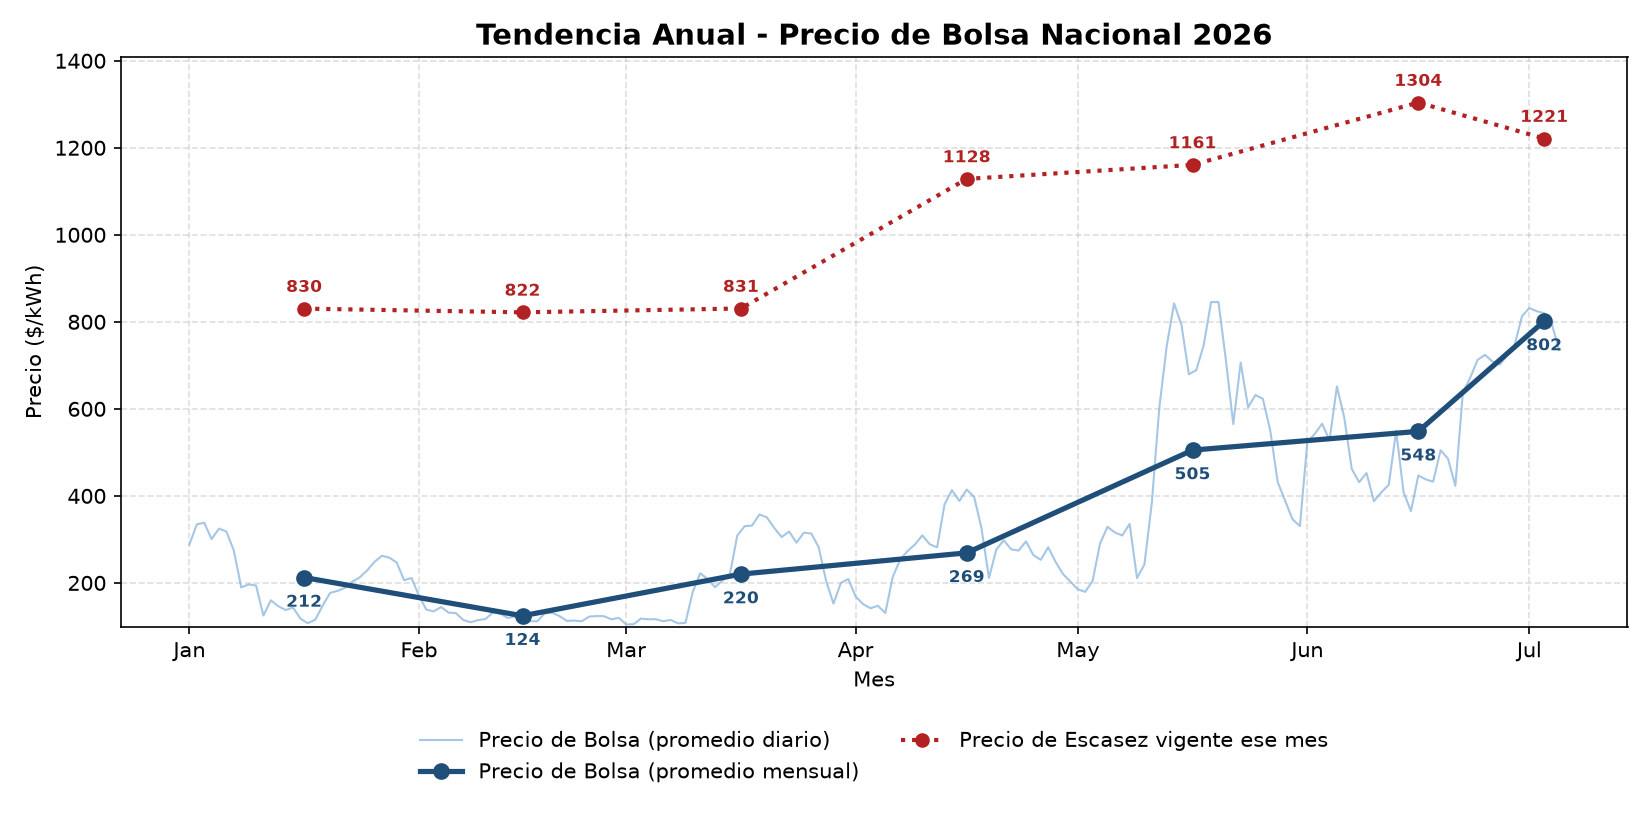
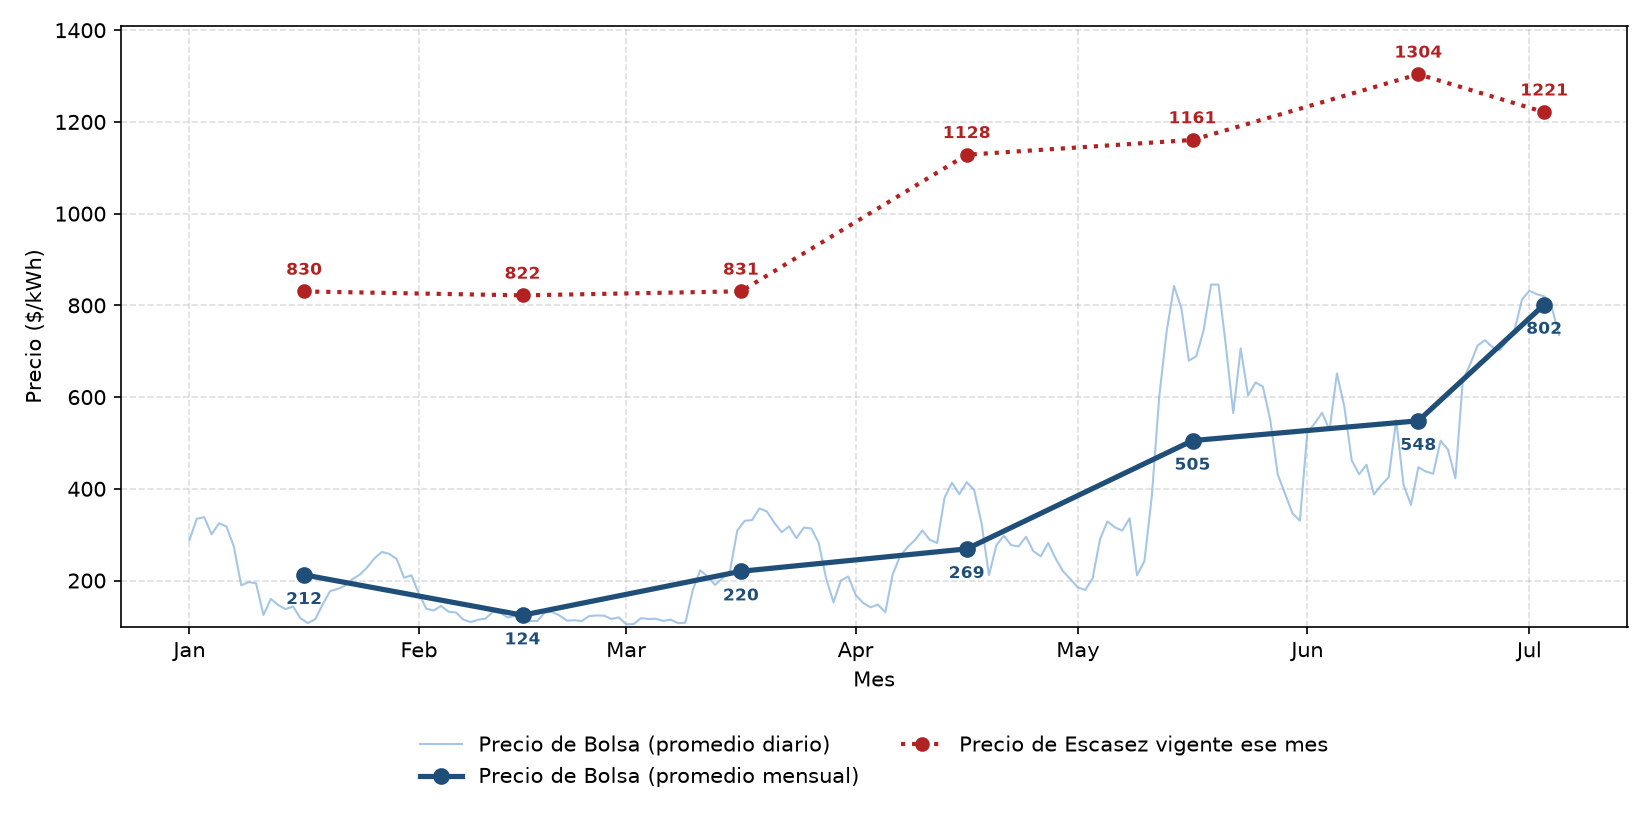
Mejoras visuales y control de envio unico diario

diff --git a/Reportes/generar_informe_diario.py b/Reportes/generar_informe_diario.py
@@ -45,35 +45,54 @@ CARPETA_ACTUAL = os.path.dirname(os.path.abspath(__file__))
 
 COLOR_TEXTO = colors.black
 COLOR_FONDO_ENCABEZADO_TABLA = colors.HexColor("#333333")
-COLOR_FONDO_TARJETA = colors.HexColor("#F2F2F2")
-COLOR_BORDE = colors.HexColor("#CCCCCC")
+COLOR_FONDO_TARJETA = colors.HexColor("#F7F7F7")
+COLOR_BORDE = colors.HexColor("#DDDDDD")
 COLOR_RESALTADO_ALTO = colors.HexColor("#B6D7A8")
 COLOR_RESALTADO_BAJO = colors.HexColor("#FFE599")
 
+COLOR_ACENTO_PRECIO = colors.HexColor("#1F4E79")
+COLOR_ACENTO_ESCASEZ = colors.HexColor("#B22222")
+COLOR_ACENTO_VARIACION = colors.HexColor("#1F6F50")
+COLOR_ACENTO_PROMEDIO = colors.HexColor("#D9822B")
+
 TAMANO_FUENTE_BASE = 12
+ANCHO_TARJETA = 4.3 * cm
 
 
-def _crear_tarjeta_kpi(titulo, valor):
+def _crear_tarjeta_kpi(titulo, valor, color_acento):
+    """
+    Crea una tarjeta KPI con tamano y tipografia uniformes, y una
+    franja de color en la parte superior a modo de acento visual.
+    """
     estilo_titulo = ParagraphStyle(
         "TituloTarjeta", fontSize=9, textColor=COLOR_TEXTO,
-        alignment=TA_CENTER, spaceAfter=2, fontName="Helvetica-Bold"
+        alignment=TA_CENTER, spaceAfter=4, fontName="Helvetica-Bold",
+        leading=12
     )
     estilo_valor = ParagraphStyle(
-        "ValorTarjeta", fontSize=15, textColor=COLOR_TEXTO,
+        "ValorTarjeta", fontSize=14, textColor=color_acento,
         alignment=TA_CENTER, fontName="Helvetica-Bold"
     )
 
+    franja_acento = Table([[""]], colWidths=[ANCHO_TARJETA], rowHeights=[0.22 * cm])
+    franja_acento.setStyle(TableStyle([
+        ("BACKGROUND", (0, 0), (-1, -1), color_acento),
+    ]))
+
     contenido = [
+        [franja_acento],
         [Paragraph(titulo, estilo_titulo)],
         [Paragraph(valor, estilo_valor)]
     ]
 
-    tabla = Table(contenido, colWidths=[4.2 * cm])
+    tabla = Table(contenido, colWidths=[ANCHO_TARJETA], rowHeights=[0.22 * cm, 1.2 * cm, 1.1 * cm])
     tabla.setStyle(TableStyle([
-        ("BACKGROUND", (0, 0), (-1, -1), COLOR_FONDO_TARJETA),
-        ("BOX", (0, 0), (-1, -1), 0.5, COLOR_BORDE),
-        ("TOPPADDING", (0, 0), (-1, -1), 8),
-        ("BOTTOMPADDING", (0, 0), (-1, -1), 8),
+        ("SPAN", (0, 0), (0, 0)),
+        ("BACKGROUND", (0, 1), (-1, -1), COLOR_FONDO_TARJETA),
+        ("BOX", (0, 0), (-1, -1), 0.75, COLOR_BORDE),
+        ("TOPPADDING", (0, 1), (-1, -1), 6),
+        ("BOTTOMPADDING", (0, 1), (-1, -1), 6),
+        ("VALIGN", (0, 0), (-1, -1), "MIDDLE"),
     ]))
 
     return tabla
@@ -140,12 +159,14 @@ def generar_informe_diario():
 
     tarjeta_precio = _crear_tarjeta_kpi(
         "Precio Bolsa Actual (" + estadisticas["fuente_dia_mas_reciente"] + ")",
-        "{:.0f}".format(estadisticas["precio_dia_mas_reciente"]) + " $/kWh"
+        "{:.0f}".format(estadisticas["precio_dia_mas_reciente"]) + " $/kWh",
+        COLOR_ACENTO_PRECIO
     )
 
     tarjeta_escasez = _crear_tarjeta_kpi(
         "Precio de Escasez",
-        "{:.0f}".format(valor_escasez) + " $/kWh" if valor_escasez is not None else "N/D"
+        "{:.0f}".format(valor_escasez) + " $/kWh" if valor_escasez is not None else "N/D",
+        COLOR_ACENTO_ESCASEZ
     )
 
     if estadisticas["variacion_diaria"] is not None:
@@ -153,11 +174,12 @@ def generar_informe_diario():
     else:
         texto_variacion = "N/D"
 
-    tarjeta_variacion = _crear_tarjeta_kpi("Variacion Diaria", texto_variacion)
+    tarjeta_variacion = _crear_tarjeta_kpi("Variacion Diaria", texto_variacion, COLOR_ACENTO_VARIACION)
 
     tarjeta_promedio = _crear_tarjeta_kpi(
         "Promedio Mensual",
-        "{:.0f}".format(estadisticas["promedio_mensual"]) + " $/kWh" if estadisticas["promedio_mensual"] is not None else "N/D"
+        "{:.0f}".format(estadisticas["promedio_mensual"]) + " $/kWh" if estadisticas["promedio_mensual"] is not None else "N/D",
+        COLOR_ACENTO_PROMEDIO
     )
 
     fila_tarjetas = Table(
@@ -222,6 +244,13 @@ def generar_informe_diario():
     ]))
     elementos.append(tabla_estadisticas)
 
+    elementos.append(Spacer(1, 10))
+    elementos.append(Paragraph("Tendencia Anual del Precio de Bolsa", estilo_seccion))
+    if ruta_grafico_anual is not None and os.path.exists(ruta_grafico_anual):
+        elementos.append(Image(ruta_grafico_anual, width=17 * cm, height=17 * cm * (5.5 / 11)))
+    else:
+        elementos.append(Paragraph("Grafico anual no disponible todavia.", estilo_cuerpo))
+
     elementos.append(PageBreak())
     elementos.append(Paragraph("IMAR del Dia Siguiente - Periodo a Periodo", estilo_seccion))
 
@@ -278,13 +307,6 @@ def generar_informe_diario():
         elementos.append(tabla_imar_pdf)
     else:
         elementos.append(Paragraph("El IMAR del dia siguiente aun no esta publicado por XM.", estilo_cuerpo))
-
-    elementos.append(PageBreak())
-    elementos.append(Paragraph("Tendencia Anual del Precio de Bolsa", estilo_seccion))
-    if ruta_grafico_anual is not None and os.path.exists(ruta_grafico_anual):
-        elementos.append(Image(ruta_grafico_anual, width=17 * cm, height=17 * cm * (5.5 / 11)))
-    else:
-        elementos.append(Paragraph("Grafico anual no disponible todavia.", estilo_cuerpo))
 
     documento.build(elementos)
 

diff --git a/BaseDatos/base_datos.py b/BaseDatos/base_datos.py
@@ -131,6 +131,17 @@ def crear_tablas():
         )
     """)
 
+    # Tabla de control de envios: registra si un proceso (ej. el
+    # informe diario) ya se ejecuto/envio en una fecha especifica,
+    # para no repetirlo varias veces el mismo dia.
+    cursor.execute("""
+        CREATE TABLE IF NOT EXISTS control_envios (
+            proceso TEXT,
+            fecha TEXT,
+            PRIMARY KEY (proceso, fecha)
+        )
+    """)
+
     conexion.commit()
     conexion.close()
 
@@ -503,6 +514,55 @@ def consultar_fecha_mas_reciente_generacion():
     if resultado is None:
         return None
     return resultado[0]
+
+
+def ya_se_envio_hoy(nombre_proceso):
+    """
+    Revisa si un proceso especifico (por ejemplo, "diario" o
+    "hidrologico") ya se ejecuto/envio el dia de hoy, para evitar
+    enviar el mismo informe mas de una vez.
+
+    Parametros:
+        nombre_proceso (str): identificador del proceso, ej. "diario".
+
+    Retorna:
+        True si ya se envio hoy, False si no.
+    """
+    crear_tablas()
+
+    hoy = datetime.now().strftime("%Y-%m-%d")
+
+    conexion = obtener_conexion()
+    cursor = conexion.cursor()
+    cursor.execute(
+        "SELECT 1 FROM control_envios WHERE proceso = ? AND fecha = ?",
+        (nombre_proceso, hoy)
+    )
+    resultado = cursor.fetchone()
+    conexion.close()
+
+    return resultado is not None
+
+
+def marcar_enviado_hoy(nombre_proceso):
+    """
+    Registra que un proceso especifico ya se envio el dia de hoy.
+    """
+    crear_tablas()
+
+    hoy = datetime.now().strftime("%Y-%m-%d")
+
+    conexion = obtener_conexion()
+    cursor = conexion.cursor()
+    cursor.execute("""
+        INSERT INTO control_envios (proceso, fecha)
+        VALUES (?, ?)
+        ON CONFLICT(proceso, fecha) DO NOTHING
+    """, (nombre_proceso, hoy))
+    conexion.commit()
+    conexion.close()
+
+    print("Registrado: '" + nombre_proceso + "' ya se envio hoy (" + hoy + ").")
 
 
 def guardar_noticias(lista_noticias):

diff --git a/main_diario.py b/main_diario.py
@@ -32,6 +32,29 @@ sys.path.append(os.path.join(CARPETA_PROYECTO, "Correos"))
 
 def ejecutar_proceso_diario():
     print("=" * 60)
+    print("REVISANDO CONDICIONES - " + datetime.now().strftime("%Y-%m-%d %H:%M:%S"))
+    print("=" * 60)
+
+    from base_datos import ya_se_envio_hoy, marcar_enviado_hoy
+
+    # Condicion 1: si el informe de hoy ya se envio, no hacemos nada mas.
+    if ya_se_envio_hoy("diario"):
+        print("El informe diario ya fue enviado hoy. No se hace nada.")
+        return
+
+    # Condicion 2: si el IMAR de mañana aun no esta publicado por XM,
+    # esperamos (el sistema volvera a revisar en 10 minutos, segun
+    # la programacion de GitHub Actions).
+    from imar import verificar_imar_de_manana_publicado
+
+    if not verificar_imar_de_manana_publicado():
+        print("El IMAR de mañana aun no ha sido publicado por XM. Se revisara de nuevo en 10 minutos.")
+        return
+
+    print("El IMAR de mañana ya esta publicado. Procediendo con el informe diario completo.")
+    print("")
+
+    print("=" * 60)
     print("INICIANDO PROCESO DIARIO - " + datetime.now().strftime("%Y-%m-%d %H:%M:%S"))
     print("=" * 60)
 
@@ -89,11 +112,13 @@ def ejecutar_proceso_diario():
     try:
         if ruta_informe is not None:
             from enviar_correo import enviar_informe_por_correo
-            enviar_informe_por_correo(
+            enviado = enviar_informe_por_correo(
                 ruta_informe,
                 "Informe Diario - Precio de Bolsa Nacional",
                 "Adjunto encontraras el informe diario del Precio de Bolsa Nacional, generado automaticamente."
             )
+            if enviado:
+                marcar_enviado_hoy("diario")
         else:
             print("No se genero el informe, asi que no se envia correo.")
     except Exception as error:

diff --git a/API/imar.py b/API/imar.py
@@ -132,6 +132,21 @@ def obtener_imar(fecha_inicio, fecha_fin):
     return df
 
 
+def verificar_imar_de_manana_publicado():
+    """
+    Verifica rapidamente (con una sola peticion) si el IMAR de
+    mañana ya esta publicado por XM, sin descargar ni guardar nada.
+    Esto es lo que usa el Modulo 2 (monitor permanente) para saber
+    cuando ya es momento de generar y enviar el informe diario.
+
+    Retorna:
+        True si ya esta publicado, False si no.
+    """
+    manana = datetime.now() + timedelta(days=1)
+    resultado = obtener_imar_de_un_dia(manana)
+    return resultado is not None
+
+
 if __name__ == "__main__":
 
     # El IMAR se publica con un dia de anticipacion, asi que siempre

diff --git a/Graficas/grafico_anual.py b/Graficas/grafico_anual.py
@@ -174,7 +174,6 @@ def generar_grafico_anual():
                 )
 
     nombre_anio = hoy.strftime("%Y")
-    ejes.set_title("Tendencia Anual - Precio de Bolsa Nacional " + nombre_anio, fontsize=14, fontweight="bold")
     ejes.set_ylabel("Precio ($/kWh)")
     ejes.set_xlabel("Mes")
 